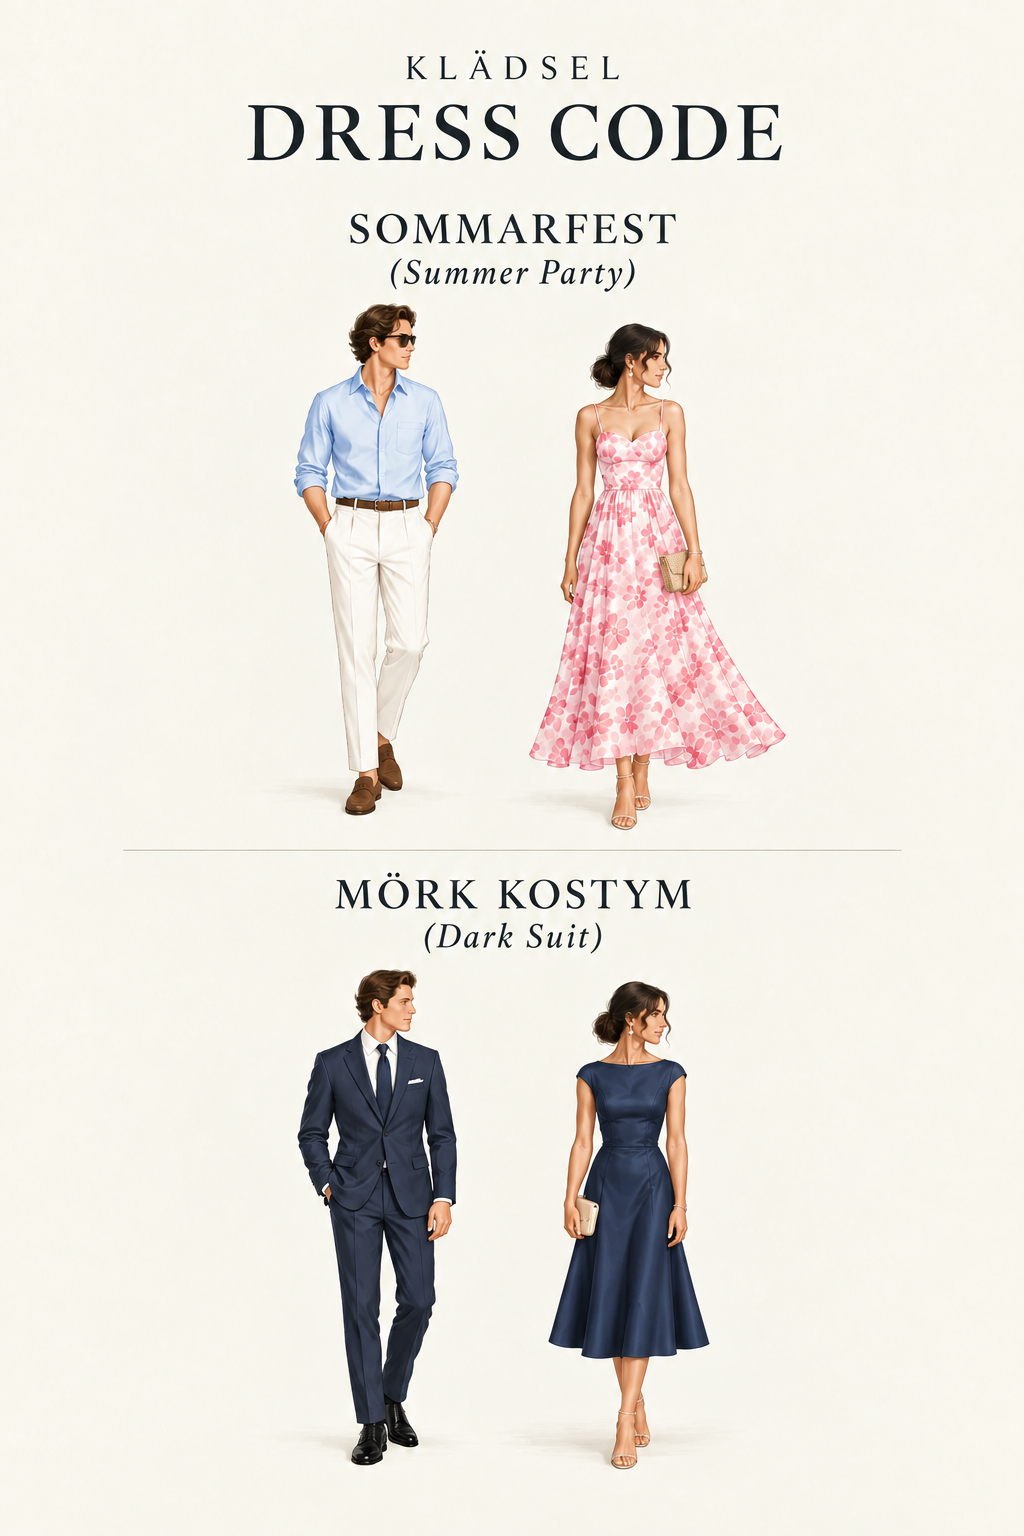
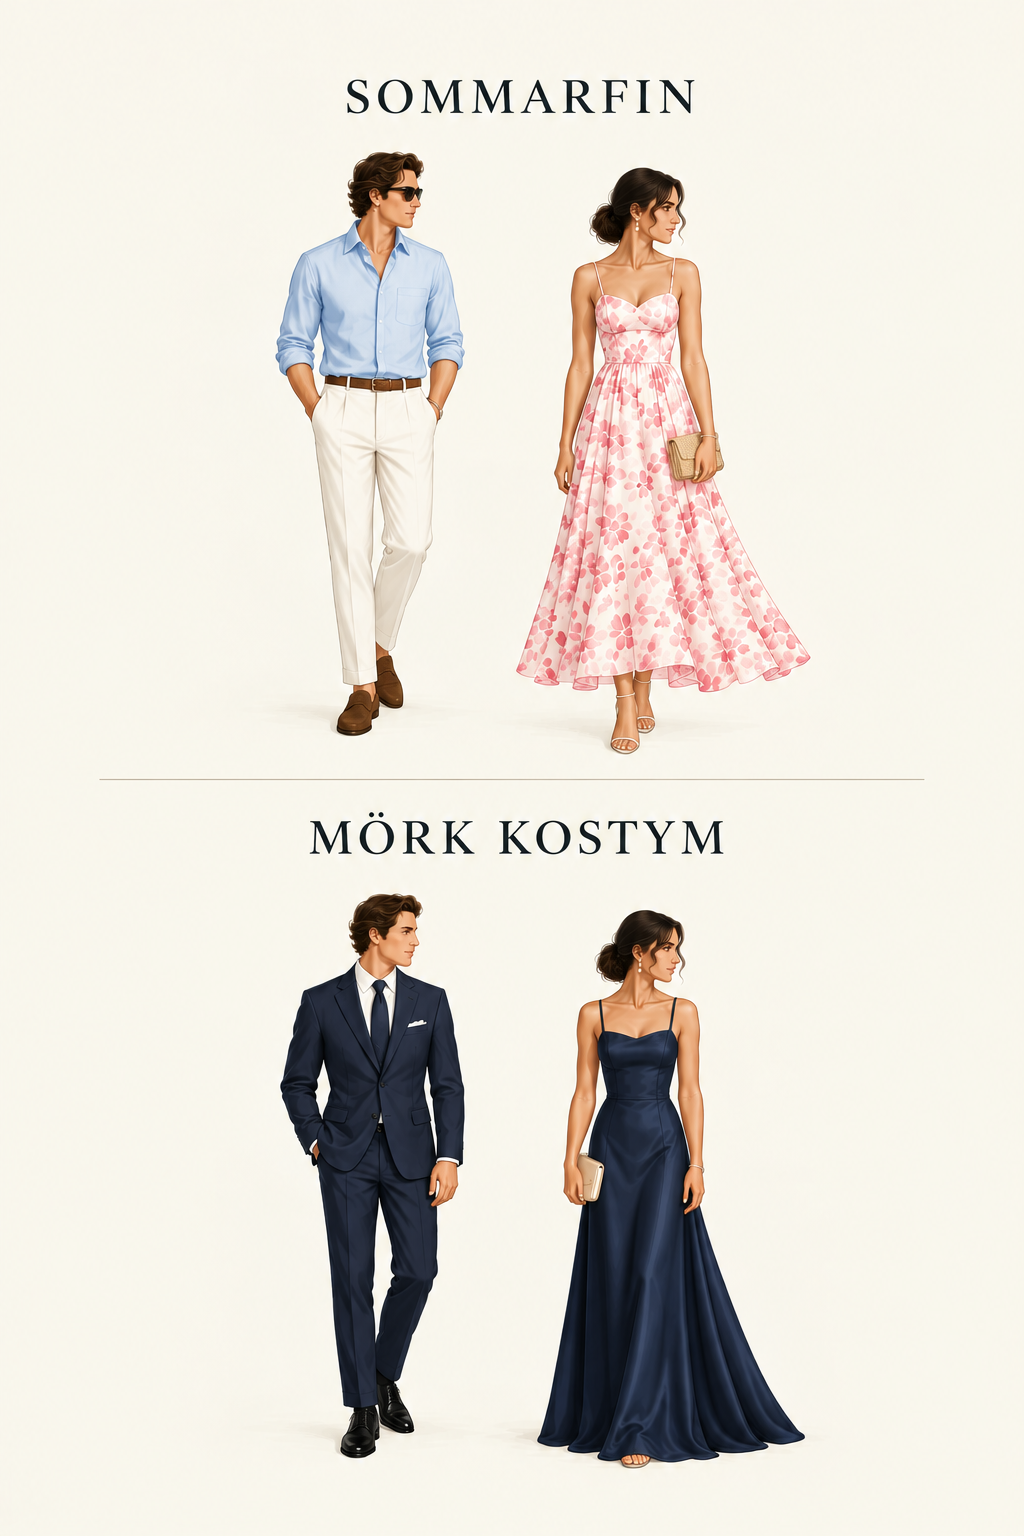
describe what changed

Changed region(s): [[0.25, 0.0312, 0.7812, 0.9688]]

diff --git a/src/components/Information.jsx b/src/components/Information.jsx
@@ -1,4 +1,4 @@
-const DRESSCODE_ILLUSTRATION_SRC = '/images/design/dresscode1.png?v=2';
+const DRESSCODE_ILLUSTRATION_SRC = '/images/design/dresscode1.png?v=3';
 const GRAND_HOTELL_BOOKING_URL = 'https://app.mews.com/distributor/f5520563-43b7-46f2-9ff9-b26b00b318ae?mewsAvailabilityBlockId=b9a3b275-880b-4157-8bb5-b47c00966c73&mewsStart=2027-06-11&mewsEnd=2027-06-13';
 const SCANDIC_LUGNET_URL = 'https://www.scandichotels.se/hotell/sverige/falun/scandic-lugnet-falun';
 // PLACEHOLDER: hotellet verkar ha bytt varumärke (dyker upp både som "Home Hotel Bergmästaren" och
@@ -7,4 +7,4 @@ const SCANDIC_LUGNET_URL = 'https://www.scandichotels.se/hotell/sverige/falun/sc
 const BERGMASTAREN_URL = 'https://BEKRAFTA-URL-HOTELL-BERGMASTAREN.se';
 const stays = [['Grand Hotell', 'Klassiskt och centralt i Falun. Vi har förhandlat fram 20% rabatt till våra gäster.', null, <><a className="btn card__book" href={GRAND_HOTELL_BOOKING_URL} target="_blank" rel="noopener noreferrer">Boka med bröllopsrabatt</a><p className="card__book-hint">Länken är förifylld med bröllopshelgens datum och er rabatt.</p></>], ['Scandic Lugnet', 'Hotell i området Lugnet (idrottsarenan) i Falun. Ca 10 min promenad från bröllopslokalen.', <a className="inline" href={SCANDIC_LUGNET_URL} target="_blank" rel="noopener noreferrer">Boka via scandichotels.se</a>], ['Hotell Bergmästaren', 'Litet centralt hotell i Falun som ligger granne med Grand. Ca 15 min promenad från bröllopslokalen.', <a className="inline" href={BERGMASTAREN_URL} target="_blank" rel="noopener noreferrer">Besök hotellets webbplats</a>]];
 function Cards({ items }) { return <div className="cards">{items.map(([title, text, meta, extra]) => <article className={`card${extra ? ' card--rec' : ''}`} key={title}>{extra && <span className="rec-badge">Bröllopsrabatt</span>}<div className="ico">♡</div><h3>{title}</h3><p>{text}</p>{meta && <div className="meta"><span>{meta}</span></div>}{extra}</article>)}</div>; }
-export default function Information() { return <><section id="boende"><div className="wrap"><div className="section-head"><p className="kicker">Boende & tips</p><h2>Övernattning i Falun</h2><p className="lead">För er som behöver boende under helgen har vi listat några förslag, men vi rekommenderar varmt Grand Hotell. Hotellet ligger centralt i Falun och 15 minuters promenad från bröllopslokalen.</p><p className="lead">Klickar ni på länken nedan kommer ni till vår bokningssida som ger er 20 % rabatt vid bokning av hotellrum.</p></div><Cards items={stays} /><p className="venue-note">Har ni frågor eller funderingar gällande boende är det bara att ni hör av er till någon av oss så hjälper vi gärna er.</p></div></section><section className="alt" id="kladkod"><div className="wrap"><div className="section-head"><p className="kicker">Klädkod</p><h2>Högtidligt & festklätt</h2><div className="divider"><span className="mark" /></div></div><div className="dresscode"><div className="dress-days"><div className="dress-day"><h3>Fredag – Sommarfin</h3><p className="dress-note">Sommarfint och ledigt – luftig festklädsel i ljusa färger.</p></div><div className="divider"><span className="mark" /></div><div className="dress-day"><h3>Lördag – Mörk kostym</h3><p className="dress-note">Kostym i mörkare toner, knä- till långklänning, kjol eller dräkt i festfint material.</p></div></div><div className="dresscode__media"><img src={DRESSCODE_ILLUSTRATION_SRC} alt="Illustration av klädkoderna: ljus sommarklänning och linneskjorta överst för sommarfesten, mörkblå aftonklänning och mörk kostym nedanför för kvällen med mörk kostym." loading="lazy" /></div></div></div></section><section id="gavor"><div className="wrap"><div className="section-head"><p className="kicker">Gåvor & önskelista</p><h2>Det finaste är att ni kommer</h2><p className="lead">Er närvaro är den största gåvan. Vill ni ändå ge något går det bra att swisha till 076-723 06 08 (Mats Gabrielsson) – märk gåvan med ”bröllop”.</p></div></div></section></>; }
+export default function Information() { return <><section id="boende"><div className="wrap"><div className="section-head"><p className="kicker">Boende & tips</p><h2>Övernattning i Falun</h2><p className="lead">För er som behöver boende under helgen har vi listat några förslag, men vi rekommenderar varmt Grand Hotell. Hotellet ligger centralt i Falun och 15 minuters promenad från bröllopslokalen.</p><p className="lead">Klickar ni på länken nedan kommer ni till vår bokningssida som ger er 20 % rabatt vid bokning av hotellrum.</p></div><Cards items={stays} /><p className="venue-note">Har ni frågor eller funderingar gällande boende är det bara att ni hör av er till någon av oss så hjälper vi gärna er.</p></div></section><section className="alt" id="kladkod"><div className="wrap"><div className="section-head"><p className="kicker">Klädkod</p><h2>Högtidligt & festklätt</h2><div className="divider"><span className="mark" /></div></div><div className="dresscode"><div className="dress-days"><div className="dress-day"><h3>Fredag – Sommarfin</h3><p className="dress-note">Sommarfint och ledigt – luftig festklädsel i ljusa färger.</p></div><div className="divider"><span className="mark" /></div><div className="dress-day"><h3>Lördag – Mörk kostym</h3><p className="dress-note">Kostym i mörkare toner, knä- till långklänning, kjol eller dräkt i festfint material.</p></div></div><div className="dresscode__media"><img src={DRESSCODE_ILLUSTRATION_SRC} alt="Illustration av klädkoderna: överst Sommarfin med ljusblå skjorta, ljusa byxor och blommig sommarklänning, nedanför Mörk kostym med mörkblå kostym och mörkblå långklänning." loading="lazy" /></div></div></div></section><section id="gavor"><div className="wrap"><div className="section-head"><p className="kicker">Gåvor & önskelista</p><h2>Det finaste är att ni kommer</h2><p className="lead">Er närvaro är den största gåvan. Vill ni ändå ge något går det bra att swisha till 076-723 06 08 (Mats Gabrielsson) – märk gåvan med ”bröllop”.</p></div></div></section></>; }
